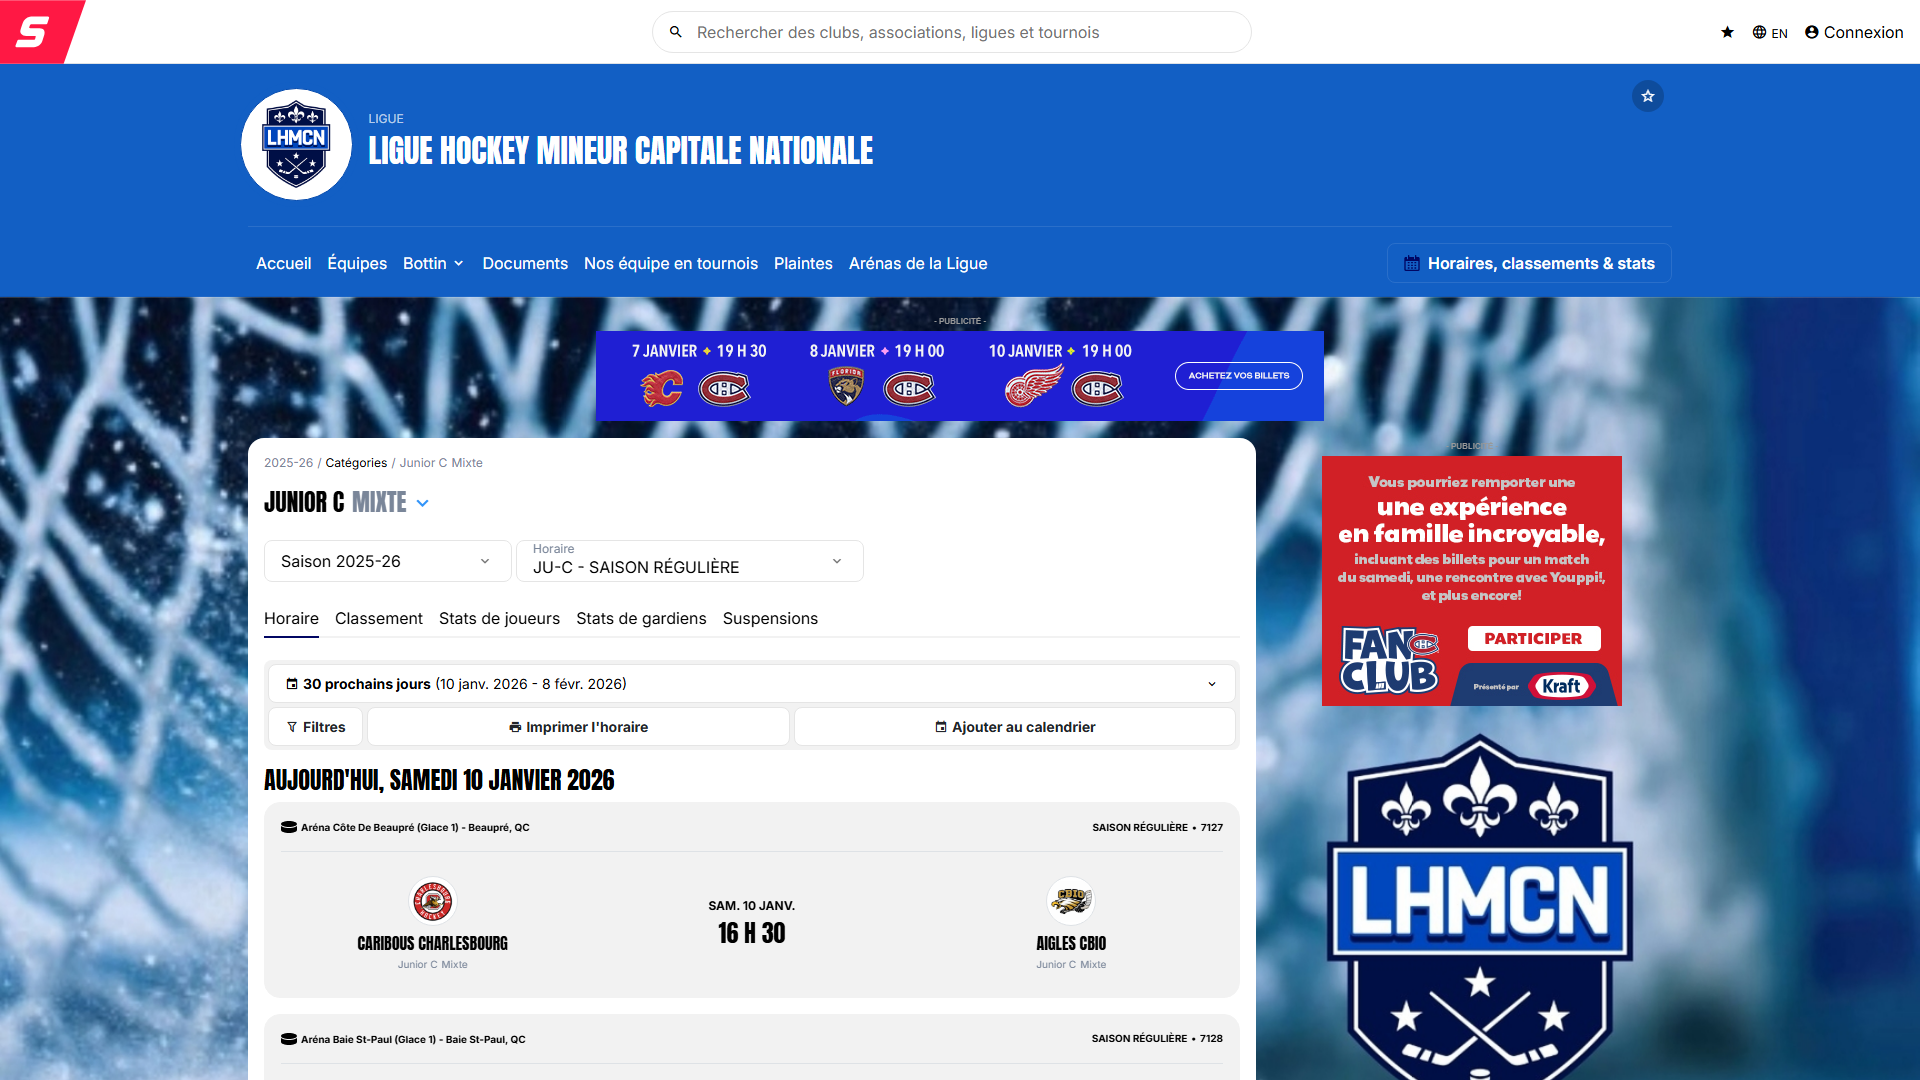
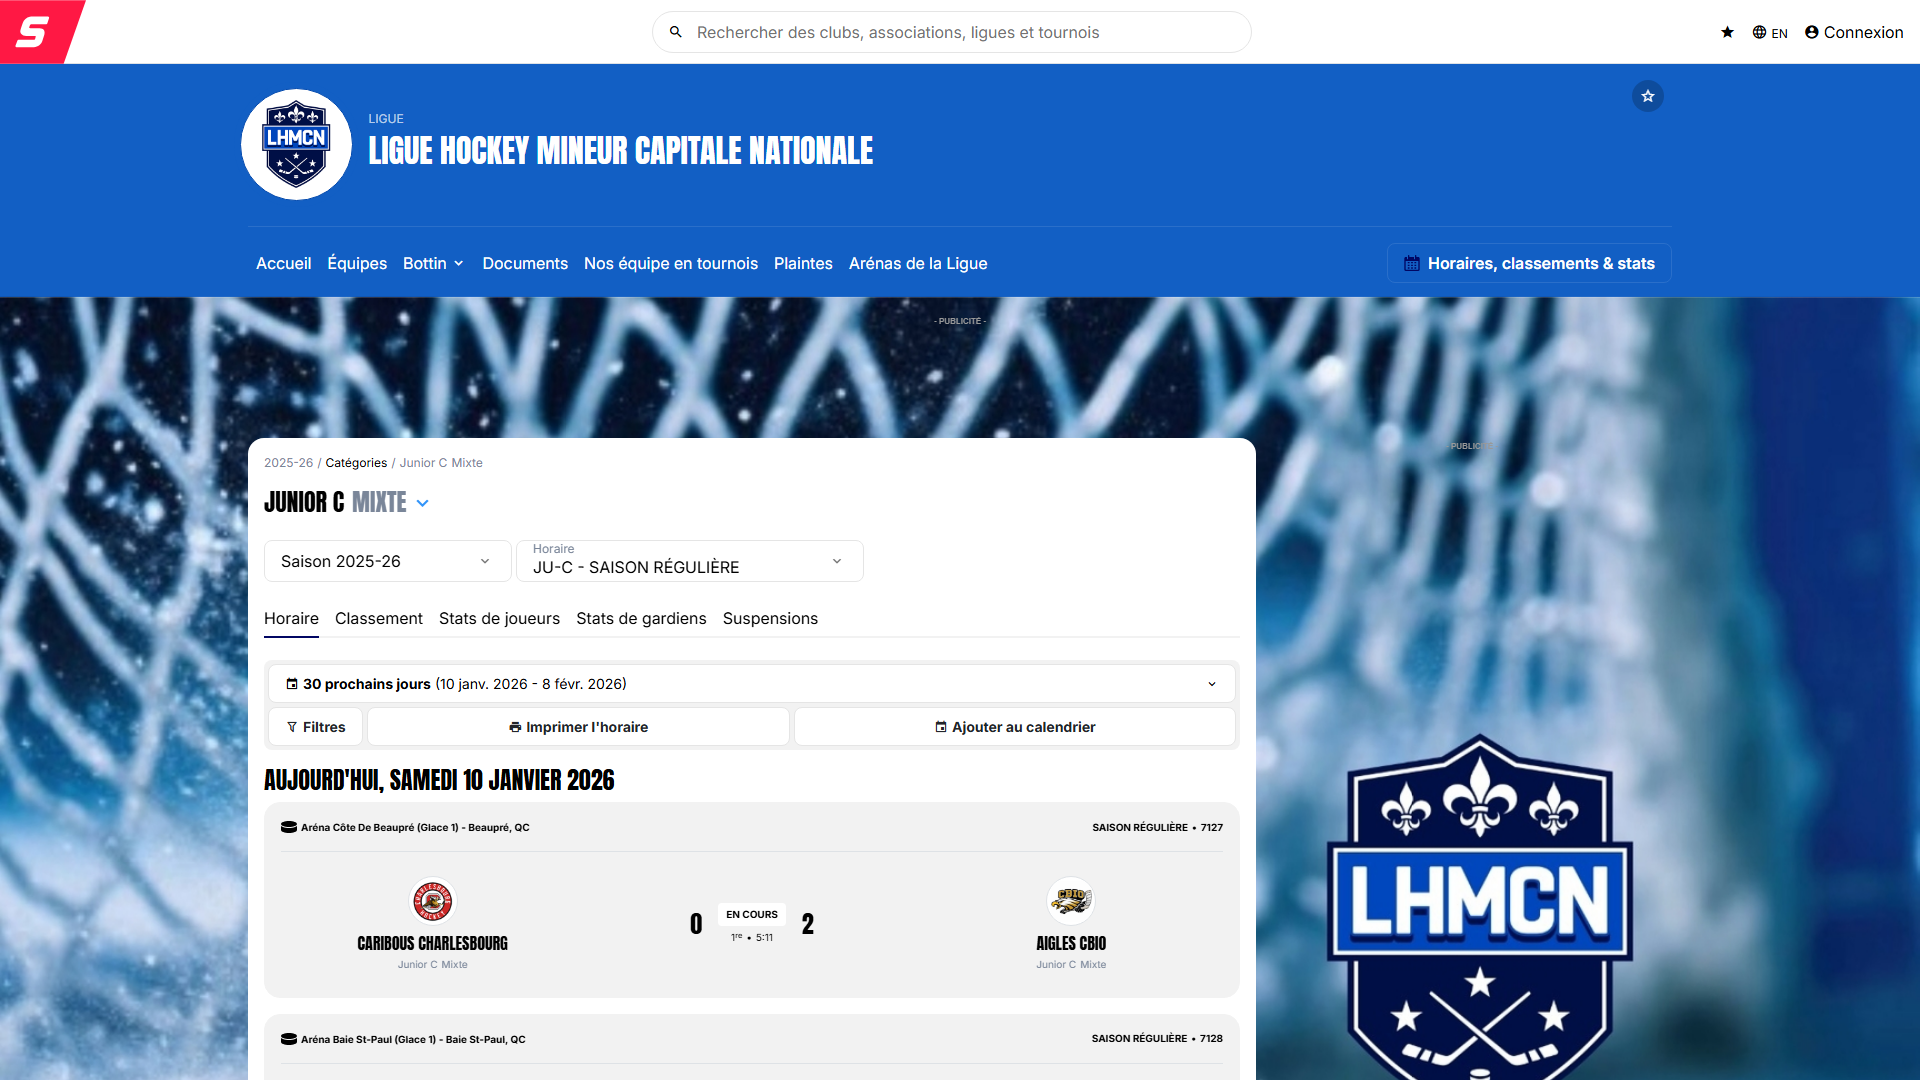
Feat: Ingest & Display Scheduled Games (Metadata Only) + Hide 0-0 Scores in Journal

Changed region(s): [[0.6875, 0.3972, 0.8438, 0.6722], [0.3125, 0.3056, 0.6875, 0.3972], [0.375, 0.825, 0.4062, 0.8861]]

diff --git a/process_gamesheets.py b/process_gamesheets.py
@@ -584,6 +584,62 @@ def main():
     except Exception as e:
         print(f"Cleanup Error: {e}")
 
+    # ---------------------------------------------------------
+    # NEW STEP: Ingest Schedule Metadata (for games without PDF)
+    # ---------------------------------------------------------
+    try:
+        schedule_path = os.path.join(os.getcwd(), "scraped_schedule.json")
+        if os.path.exists(schedule_path):
+            print(f"Processing schedule metadata from: {schedule_path}")
+            with open(schedule_path, "r", encoding="utf-8") as f:
+                schedule_data = json.load(f)
+            
+            import json
+            for g in schedule_data:
+                # Extract basic info
+                game_id = g.get('id')
+                if not game_id: continue
+                
+                # Format Dates
+                raw_date = g.get('date', "")
+                try: # "2026-01-09 20:30:00" -> "2026-01-09"
+                    iso_date = raw_date.split(" ")[0]
+                except: iso_date = raw_date
+                
+                arena = g.get('arena', {}).get('name', 'Unknown Arena')
+                home_team = g.get('homeTeam', {}).get('name', 'Unknown Home')
+                visitor_team = g.get('visitorTeam', {}).get('name', 'Unknown Visitor')
+                
+                cursor.execute("SELECT final_score_home FROM DimGame WHERE game_id=?", (game_id,))
+                row = cursor.fetchone()
+                
+                # Only insert if NOT exists. 
+                # If exists, ONLY update if it was 'Scheduled' (Score=0). Do NOT overwrite Final games.
+                should_update = False
+                if not row:
+                    should_update = True # Insert new
+                else:
+                    if row[0] == 0: should_update = True # Update existing scheduled
+                
+                if should_update:
+                    try:
+                        # Upsert logic for Schedule
+                        cursor.execute("""
+                            INSERT OR REPLACE INTO DimGame (
+                                game_id, date, home_team, visitor_team, 
+                                final_score_home, final_score_visitor, 
+                                shots_for_home, shots_for_visitor, arena
+                            ) VALUES (?, ?, ?, ?, 0, 0, 0, 0, ?)
+                        """, (game_id, iso_date, home_team, visitor_team, arena))
+                    except Exception as e:
+                        print(f"Error upserting schedule game {game_id}: {e}")
+            
+            conn.commit()
+            print("Schedule metadata ingestion complete.")
+            
+    except Exception as e:
+        print(f"Error processing schedule JSON: {e}")
+
     # --- DEFERRED DELETION ---
     # Delete temporary PDFs for today's scheduled games so they can be re-downloaded later.
     for fpath in deferred_deletes:

diff --git a/app.py b/app.py
@@ -1464,8 +1464,19 @@ def render_dashboard(games, goals, penalties, conn, selected_teams, stats_mode, 
         # Filter Data
         # Use games_full if available to show Schedule in Journal, otherwise fallback to stats games
         source_games = games_full if games_full is not None else games
-        games_filtered = source_games[(source_games['home'] == selected_team) | (source_games['visitor'] == selected_team)]
+        games_filtered = source_games[(source_games['home'] == selected_team) | (source_games['visitor'] == selected_team)].copy()
         
+        # UI TWEAK: Hide scores if 0-0 (Scheduled games)
+        # Convert to string/object to allow empty strings
+        games_filtered['final_score_home'] = games_filtered['final_score_home'].astype(str)
+        games_filtered['final_score_visitor'] = games_filtered['final_score_visitor'].astype(str)
+        
+        # Loop to clear 0s if it looks initialized
+        # We assume if BOTH are "0", it's a scheduled game.
+        mask_scheduled = (games_filtered['final_score_home'] == '0') & (games_filtered['final_score_visitor'] == '0')
+        games_filtered.loc[mask_scheduled, 'final_score_home'] = ''
+        games_filtered.loc[mask_scheduled, 'final_score_visitor'] = ''
+
         # Prepare Dates map
         game_dates = games[['game_id', 'date_dt']]
         

diff --git a/download_game_sheets.py b/download_game_sheets.py
@@ -178,6 +178,19 @@ def process_global_schedule(page, date_from):
             data = response_info.value.json()
             print(f"DEBUG: API Request URL: {response_info.value.url}")
             print(f"DEBUG: API Returned {len(data)} games.")
+            
+            # SAVE SCHEDULE JSON for metadata ingestion
+            # This allows us to import games that don't have PDFs yet (scheduled games)
+            # or where PDF download fails.
+            try:
+                import json
+                schedule_path = os.path.join(os.getcwd(), "scraped_schedule.json")
+                with open(schedule_path, "w", encoding="utf-8") as f:
+                    json.dump(data, f, ensure_ascii=False, indent=2)
+                print(f"Saved schedule metadata to: {schedule_path}")
+            except Exception as e:
+                print(f"Warning: Could not save schedule JSON: {e}")
+
             for g in data:
                 unique_ids.add(str(g.get("id")))
 
